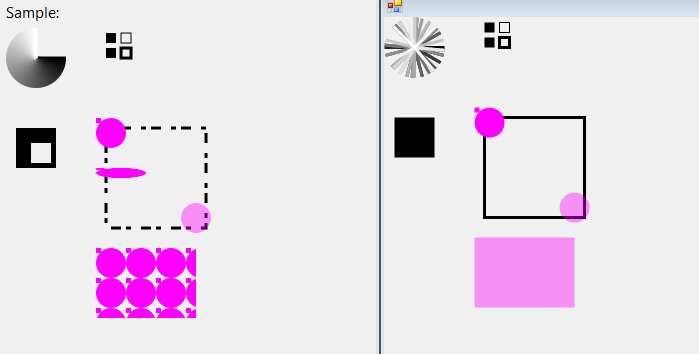
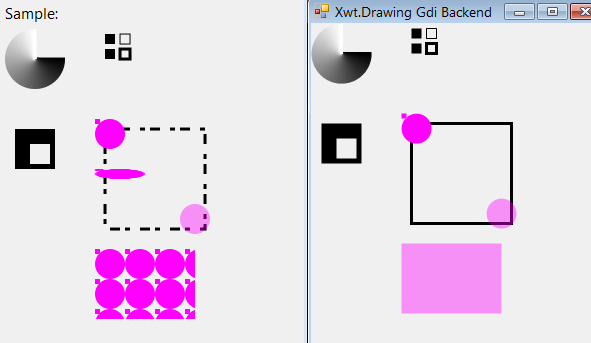
Xwt.Gdi: ContextBackendhandler: some fixes

diff --git a/Xwt.Gdi/Xwt.Gdi.Backend/GdiContext.cs b/Xwt.Gdi/Xwt.Gdi.Backend/GdiContext.cs
@@ -31,14 +31,15 @@ using System.Collections.Generic;
 
 
 namespace Xwt.Gdi.Backend {
-    public class GdiContext:IDisposable {
-        public GdiContext() {
+    public class GdiContext : IDisposable {
+        public GdiContext () {
             Color = Color.Black;
             LineWidth = 1;
         }
 
-        public GdiContext (GdiContext c):this() {
-            c.SaveTo(this);
+        public GdiContext (GdiContext c)
+            : this () {
+            c.SaveTo (this);
         }
         public Graphics Graphics;
         public GraphicsState State { get; set; }
@@ -46,26 +47,8 @@ namespace Xwt.Gdi.Backend {
 
         private PointF _current;
         public PointF Current {
-            get {
-                if (_path==null || Path.PointCount == 0)
-                    return _current;
-                return (_current = Path.GetLastPoint());
-            }
-            set {
-                if (_path!=null && Path.PointCount != 0 ) {
-                    var _lastpoint = Path.GetLastPoint();
-                    if (_lastpoint != value) {
-                        //var _lastpoint = Path.PathPoints[Path.PathData.Points.Length - 1];
-                        var _p = new GraphicsPath ();
-                        //Path.AddPath (_p, true); //empty paths are not allowed
-                        _p.AddPath(Path,true);
-                        _transformed = false;
-                        _path = _p;
-                        //Path.PathData.Points[Path.PathData.Points.Length - 1] = value;
-                    }
-                }
-                _current = value;
-            }
+            get { return _current; }
+            set { _current = value; }
         }
 
         GraphicsPath _path = null;
@@ -73,8 +56,7 @@ namespace Xwt.Gdi.Backend {
             get {
                 if (_path == null) {
                     _path = new GraphicsPath ();
-                    if (_transformPath)
-                        _transformed = false;
+                    _transformed = false;
                 }
                 return _path;
             }
@@ -101,10 +83,9 @@ namespace Xwt.Gdi.Backend {
                 if (_matrix != value && _matrix != null)
                     _matrix.Dispose ();
                 _matrix = value;
-                //if (_transformPath)
-                //    _path.Transform (Matrix);
             }
         }
+
         public Color Color { get; set; }
         public double LineWidth { get; set; }
         public double[] LineDash { get; set; }
@@ -114,7 +95,7 @@ namespace Xwt.Gdi.Backend {
         public Brush Brush {
             get {
                 if (_brush == null)
-                    _brush = new SolidBrush(this.Color);
+                    _brush = new SolidBrush (this.Color);
                 else
                     _brush.Color = this.Color;
                 return _brush;
@@ -126,7 +107,7 @@ namespace Xwt.Gdi.Backend {
         public Pen Pen {
             get {
                 if (_pen == null)
-                    _pen = new Pen(Color);
+                    _pen = new Pen (Color);
                 else
                     _pen.Color = Color;
 
@@ -136,15 +117,20 @@ namespace Xwt.Gdi.Backend {
             set { _pen = value; }
         }
 
-        public void Dispose() {
+        public void Dispose () {
             if (_path != null)
-                Path.Dispose();
+                Path.Dispose ();
             if (_pen != null)
-                _pen.Dispose();
+                _pen.Dispose ();
             if (_brush != null)
-                _brush.Dispose();
+                _brush.Dispose ();
             if (_matrix != null)
-                _matrix.Dispose();
+                _matrix.Dispose ();
+            if (this.contexts != null) {
+                foreach (var c in this.contexts)
+                    c.Dispose ();
+                contexts.Clear ();
+            }
         }
 
         public Xwt.Drawing.Font Font { get; set; }
@@ -154,57 +140,35 @@ namespace Xwt.Gdi.Backend {
         }
 
         private bool _transformed = false;
-        bool _transformPath = true; //false: very slow, but normal text is transformed too
         public void Transform () {
             if (!_transformed && _path != null) {
-                if (_transformPath)
-                    // this transforms path.points immedeatly:
-                    Path.Transform (Matrix);
-                else
-                    Graphics.Transform = Matrix;
+
+                // this transforms path.points immedeatly:
+                Path.Transform (Matrix);
+                Matrix.Reset ();
+
                 _transformed = true;
             }
         }
+
         public void Rotate (float p) {
-            Matrix.Rotate (p,MatrixOrder.Append);
+            Matrix.Rotate (p, MatrixOrder.Append);
         }
 
-        public  void ResetTransform () {
+        public void ResetTransform () {
             if (_matrix != null) {
                 Matrix.Reset ();
-
-                if (_path != null && _transformPath) {
-                    //Path.Transform (Matrix); //has no effect as all points are already transformed
-                    //Graphics.ResetTransform();
-                    
-                } else
-                    Graphics.Transform = Matrix;
-               
             }
+            Graphics.ResetTransform ();
             _transformed = false;
         }
 
         public void Translate (float x, float y) {
-            //Matrix.Translate (x,y);
             Graphics.TranslateTransform (x, y);
-           
         }
 
         public void TranslatePath (float x, float y) {
             Matrix.Translate (x, y);
-        }
-        public class ContextState {
-            public Drawing.Font Font { get; set; }
-
-            public Pen Pen { get; set; }
-
-            public SolidBrush Brush { get; set; }
-
-            public GraphicsPath Path { get; set; }
-
-            public Matrix Matrix { get; set; }
-
-            public PointF Current { get; set; }
         }
 
         public void SaveTo (GdiContext c) {
@@ -217,25 +181,28 @@ namespace Xwt.Gdi.Backend {
             //return c;
         }
 
+        protected Stack<GdiContext> contexts;
+
         public void Save () {
             if (this.contexts == null)
                 this.contexts = new Stack<GdiContext> ();
-           
-            this.contexts.Push ( new GdiContext(this) {State=Graphics.Save()} );
+
+            this.contexts.Push (new GdiContext (this) { State = Graphics.Save () });
         }
-        
+
 
         public void Restore () {
             if (this.contexts == null || this.contexts.Count == 0)
                 throw new InvalidOperationException ();
 
             var c = this.contexts.Pop ();
-            c.SaveTo(this);
-            Graphics.Restore(c.State);
-       
+
+            c.SaveTo (this);
+            Graphics.Restore (c.State);
+
         }
 
-        private Stack<GdiContext> contexts;
-        
+
+
     }
 }

diff --git a/Xwt.Gdi/Xwt.Gdi.Backend/ContextBackendHandler.cs b/Xwt.Gdi/Xwt.Gdi.Backend/ContextBackendHandler.cs
@@ -46,6 +46,12 @@ namespace Xwt.Gdi.Backend {
             return ctx;
         }
 
+        /// <summary>
+        /// Makes a copy of the current state of the Context and saves it on an internal stack of saved states.
+        /// When Restore() is called, it will be restored to the saved state. 
+        /// Multiple calls to Save() and Restore() can be nested; 
+        /// each call to restore() restores the state from the matching paired save().
+        /// </summary>
         public virtual void Save (object backend) {
             var gc = (GdiContext) backend;
             gc.Save ();
@@ -53,7 +59,7 @@ namespace Xwt.Gdi.Backend {
 
         public virtual void Restore (object backend) {
             var gc = (GdiContext) backend;
-           gc.Restore ();
+            gc.Restore ();
         }
 
         // http://cairographics.org/documentation/cairomm/reference/classCairo_1_1Context.html
@@ -84,6 +90,7 @@ namespace Xwt.Gdi.Backend {
                 (float) (xc - radius), (float) (yc - radius),
                 (float) radius * 2, (float) radius * 2,
                 (float) angle1, (float) angle2);
+            gc.Current = gc.Path.GetLastPoint ();
         }
 
         /// <summary>
@@ -131,7 +138,7 @@ namespace Xwt.Gdi.Backend {
                 (float) x1, (float) y1,
                 (float) x2, (float) y2,
                 (float) x3, (float) y3);
-
+            gc.Current = new PointF ((float) x3, (float) y3);
         }
 
         public virtual void Fill (object backend) {
@@ -150,6 +157,7 @@ namespace Xwt.Gdi.Backend {
         public virtual void LineTo (object backend, double x, double y) {
             var gc = (GdiContext) backend;
             gc.Path.AddLine (gc.Current, new PointF ((float) x, (float) y));
+            gc.Current = new PointF ((float) x, (float) y);
         }
 
         /// <summary>
@@ -172,11 +180,26 @@ namespace Xwt.Gdi.Backend {
         public virtual void Rectangle (object backend, double x, double y, double width, double height) {
             var gc = (GdiContext) backend;
             gc.Path.AddRectangle (new RectangleF ((float) x, (float) y, (float) width, (float) height));
+            gc.Current = gc.Path.GetLastPoint ();
         }
 
+        /// <summary>
+        /// Relative-coordinate version of curve_to().
+        /// All offsets are relative to the current point. 
+        /// Adds a cubic Bezier spline to the path from the current point to a point offset 
+        /// from the current point by (dx3, dy3), using points offset by (dx1, dy1) and (dx2, dy2) 
+        /// as the control points. After this call the current point will be offset by (dx3, dy3).
+        /// Given a current point of (x, y), RelCurveTo(dx1, dy1, dx2, dy2, dx3, dy3)
+        /// is logically equivalent to CurveTo(x + dx1, y + dy1, x + dx2, y + dy2, x + dx3, y + dy3).
+        /// </summary>
         public virtual void RelCurveTo (object backend, double dx1, double dy1, double dx2, double dy2, double dx3, double dy3) {
             var gc = (GdiContext) backend;
-
+            gc.Path.AddBezier (
+                (float) gc.Current.X, (float) gc.Current.Y,
+               (float) (gc.Current.X + dx1), (float) (gc.Current.Y + dy1),
+               (float) (gc.Current.X + dx2), (float) (gc.Current.Y + dy2),
+               (float) (gc.Current.X + dx3), (float) (gc.Current.Y + dy3));
+            gc.Current = new PointF ((float) (gc.Current.X + dx3), (float) (gc.Current.Y + dy3));
         }
 
         /// <summary>
@@ -184,11 +207,12 @@ namespace Xwt.Gdi.Backend {
         /// is offset from the current point by (dx, dy) in user space. 
         /// After this call the current point will be offset by (dx, dy).
         /// Given a current point of (x, y), 
-        /// rel_line_to(dx, dy) is logically equivalent to line_to(x + dx, y + dy).
+        /// RelLineTo(dx, dy) is logically equivalent to LineTo(x + dx, y + dy).
         public virtual void RelLineTo (object backend, double dx, double dy) {
             var gc = (GdiContext) backend;
             gc.Path.AddLine (gc.Current,
                 new PointF ((float) (gc.Current.X + dx), (float) (gc.Current.Y + dy)));
+            gc.Current = gc.Path.GetLastPoint ();
         }
 
         /// <summary>
@@ -261,6 +285,9 @@ namespace Xwt.Gdi.Backend {
         public virtual void Rotate (object backend, double angle) {
             var gc = (GdiContext) backend;
             gc.Rotate ((float) angle);
+            if (gc.Path.PointCount != 0) {
+                gc.Current = gc.Path.GetLastPoint ();
+            }
         }
 
         public virtual void Translate (object backend, double tx, double ty) {

diff --git a/Xwt.Gdi/Xwt.Gdi.Backend/ImageHandler.cs b/Xwt.Gdi/Xwt.Gdi.Backend/ImageHandler.cs
@@ -1,0 +1,39 @@
+using System.Drawing;
+using Xwt.Backends;
+
+namespace Xwt.Gdi.Backend {
+    public class ImageHandler : ImageBackendHandler {
+
+        public override object LoadFromStream (System.IO.Stream stream) {
+            return Image.FromStream(stream);
+        }
+
+        public override object LoadFromIcon (string id, IconSize size) {
+            throw new System.NotImplementedException ();
+        }
+
+        public override Size GetSize (object handle) {
+            throw new System.NotImplementedException ();
+        }
+
+        public override object Resize (object handle, double width, double height) {
+            throw new System.NotImplementedException ();
+        }
+
+        public override object Copy (object handle) {
+            throw new System.NotImplementedException ();
+        }
+
+        public override void CopyArea (object srcHandle, int srcX, int srcY, int width, int height, object destHandle, int destX, int destY) {
+            throw new System.NotImplementedException ();
+        }
+
+        public override object Crop (object handle, int srcX, int srcY, int width, int height) {
+            throw new System.NotImplementedException ();
+        }
+
+        public override object ChangeOpacity (object backend, double opacity) {
+            throw new System.NotImplementedException ();
+        }
+    }
+}
